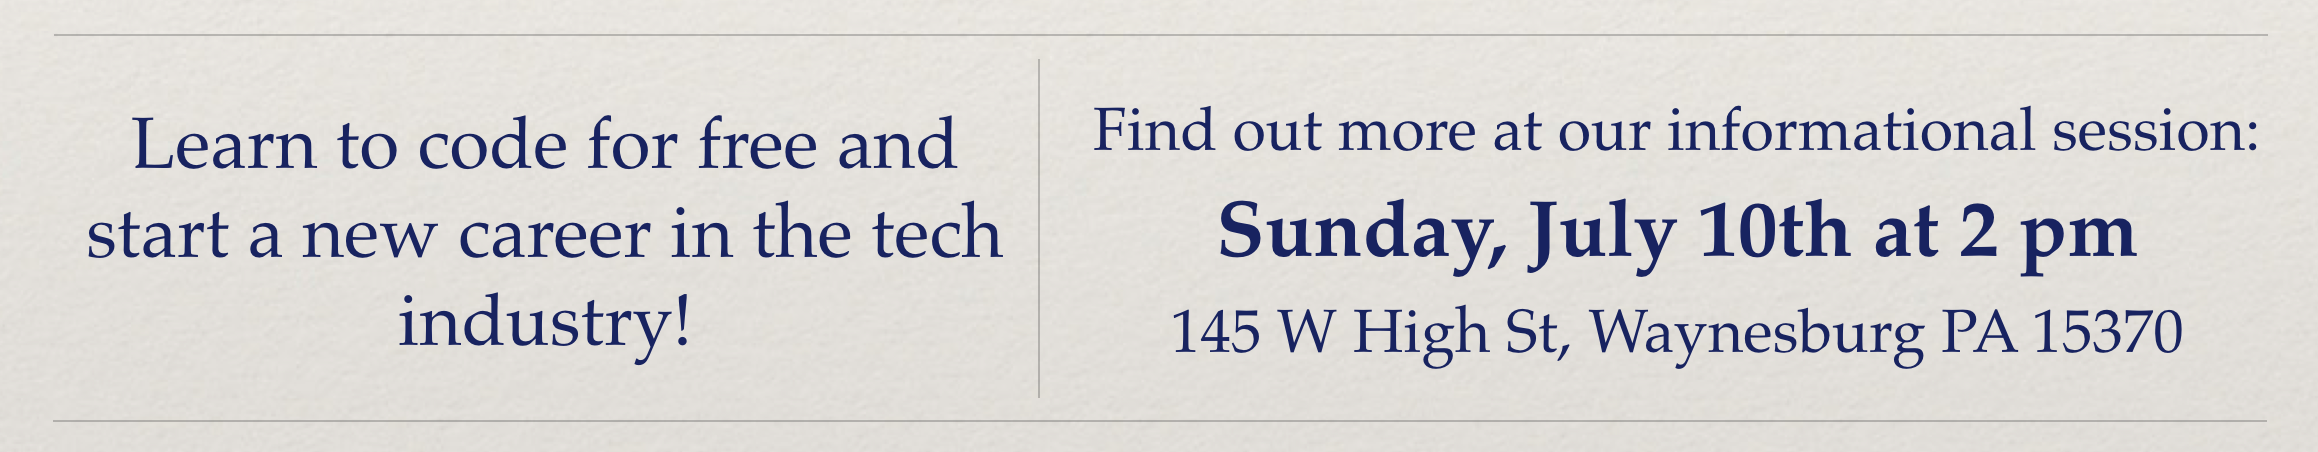
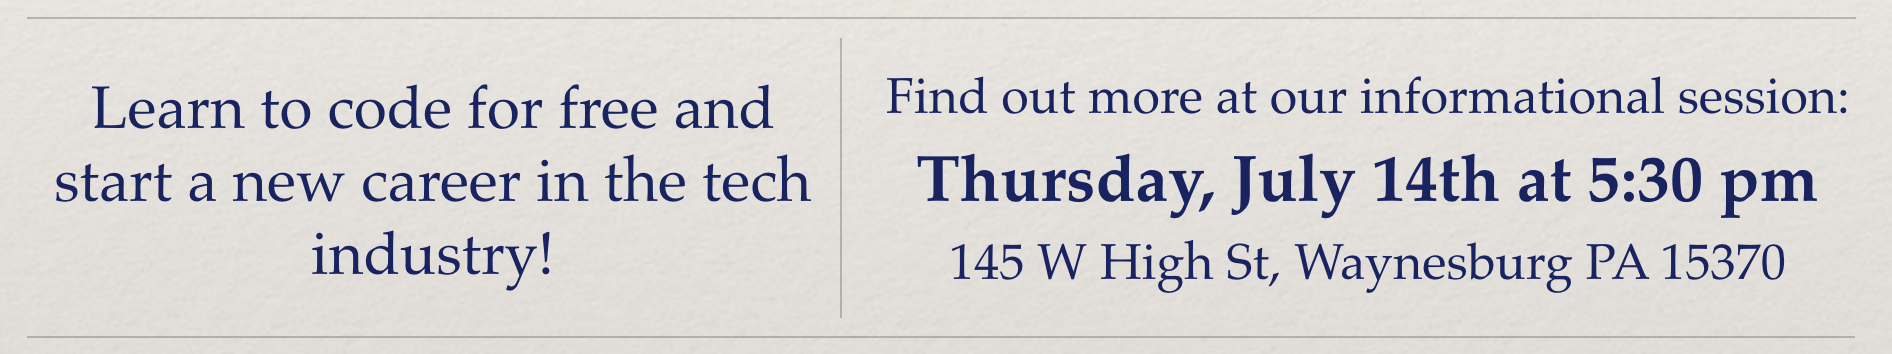
add new info session. Minor detail changes to upcoming courses

diff --git a/_site/training.html b/_site/training.html
@@ -82,12 +82,12 @@
   If you are interested in joining a class, then be prepared to convince us that you have the passion and drive to succeed. You may like to look at <a href="http://jonathangraham.github.io/2015/08/13/Teaching%20Programming%20with%20SonicPi/">Learning To Code with Audible Programming</a> and <a href="http://learnrubythehardway.org/book/">Learning Ruby the Hard Way</a>.
   <br /><br />
   <p class="section-title"><span>next courses</span></p>
-    <a href="https://www.facebook.com/events/191624284573663/"><img src="/assets/images/info_session.png" alt="Join us for an informational session on Sunday, July 10th at 2 pm." class="image" /></a><br /><br />
-    <li>Starting August 1st, we will be running a 4-month duration full-time course in partnership with <a href="https://www.ccac.edu/">Community College of Allegheny County</a>. The course will involve on-site training at the Mined Minds office in Waynesburg on Monday's and Thursday's, with remote work throughout the week. This course is ideal for anyone passionate about making an immediate career change.<br /><br />
+    <a href="https://www.facebook.com/events/191624284573663/"><img src="/assets/images/info_session.png" alt="Join us for an informational session on Thursday, July 14th at 5:30 pm." class="image" /></a><br /><br />
+    <li>Starting August 1st, we will be running a 4-month computer-coding bootcamp in partnership with <a href="https://www.ccac.edu/">Community College of Allegheny County</a>. The course will involve on-site training at the Mined Minds office in Waynesburg on Monday's and Thursday's, with remote work throughout the week. Expect to commit a minimum of 40 hours per week to study. This course is ideal for anyone passionate about making an immediate career change.<br /><br />
     <b><a href="https://www.ccac.edu/Computer_Coding_Boot_Camp/">Sign-up is open now!</a></b><br /><br />
     Our goal is for no displaced, dislocated, unemployed, underemployed, or otherwise disadvantaged worker to personally fund the course. We'll do everything we can to help make sure that this happens. There are many funding opportunities available to cover the tuition costs. Please register with <a href="https://www.jobgateway.pa.gov/jponline/JobSeeker/ManageServices/CourseDetails.aspx?Mu63At4oSABZWGqDSQVh0ZbRZlz_5bjCkHj4F7TEhStEer4vRpyWxNskZJ9L6M8K0XRwNNzd0HwQ@H9Vg1OwsQ--qctAyWW4Xamgs1rZjjJO0eGnDr13yWfntZE9wpHRHFeXq42aAnyO">Job Gateway</a>, and visit a CareerLink office to discuss your eligibility. The Waynesburg CareerLink office is located at 4 W High Street, just down the road from Mined Minds, and they are ready to help you through the process. Please note that it can take several weeks to access funding, so start the process now!</li><br />
-    <li>On July 30th, we will start the next part-time course. These part-time courses run for 6-7 months, and are intended for people who are wanting to change career but aren't able to study full-time. On-site training occurs every other weekend, and one evening per week. Students who successfully complete the course spend at least 25 hours per week studying, both individually and in groups. Please <a href="contact.html">contact us</a> to express an interest, detailing why this Summer 2016 PA part-time course is of interest to you. We will be in contact to arrange a phone conversation to determine suitability shortly.</li><br />
-    <li>Due to interest and support from the community in southern West Virginia, we will be commencing a course in the Charleston area later in the summer. Dates and location will be confirmed shortly. The course will be full-time, with one day per week on-site in a south WV location. Please <a href="contact.html">contact us</a> to express an interest, detailing why this 2016 WV course is of interest to you. We will be in contact to arrange a phone conversation to determine suitability shortly.</li><br /> 
+    <li>Due to interest and support from the community in southern West Virginia, we will be commencing a course in the Charleston area later in the summer. Dates and location will be confirmed shortly. The course will involve one day per week on-site in a south WV location, with remote work throughout the rest of the week. Please <a href="contact.html">contact us</a> to express an interest, detailing why this 2016 WV course is of interest to you. We will be in contact to arrange a phone conversation to determine suitability shortly.</li><br />
+    <li>Later in the year we will start another part-time course. The part-time courses run for 6-7 months, and are intended for people who are wanting to change career but aren't able to study full-time. On-site training occurs every other weekend, and one evening per week. Students who successfully complete the course spend at least 25 hours per week studying, both individually and in groups. Please <a href="contact.html">contact us</a> to express an interest, detailing why a part-time course is of interest to you. We will be in contact to arrange a phone conversation to determine suitability shortly.</li><br /> 
   <p class="section-title"><span>support</span></p>
     Mined Minds Foundation is a 501(c)(3) non-profit, bringing software development eduaction, training, and job placement services to coal towns of Pennslyvania and West Virginia. Please <a href="contact.html">get in touch</a> if you would like to support our work.
 </section>

diff --git a/_site/index.html b/_site/index.html
@@ -77,6 +77,7 @@
     <p class="section-title"><span>NEWS</span></p>
   </section>
 <p><b>JULY 2016</b></p>
+<li>Full house for our first informational session, so we will be holding another on Thursday, July 14th, at 5:30 pm. More details on our <a href="https://www.facebook.com/events/291744604509356/">Facebook page</a>.</li>
 <li>We will be holding an <a href="https://www.facebook.com/events/191624284573663/">informational session</a> for our new training courses on <b>Sunday, July 10th, at 2 pm</b>. Join us at 145 W High St, Waynesburg PA 15370, to find out what is involved, the careers that you can expect at the end, and how to apply.</li>
 <p><b>JUNE 2016</b></p>
 <li><a href="https://www.ccac.edu/Computer_Coding_Boot_Camp/">Sign-up is now open</a> for our next full-time course, run in conjunction with Community College of Allegheny County. The course starts August 1st, and will run from our Waynesburg PA office.</li>

diff --git a/training.md b/training.md
@@ -25,12 +25,12 @@ include_social: true
   If you are interested in joining a class, then be prepared to convince us that you have the passion and drive to succeed. You may like to look at <a href="http://jonathangraham.github.io/2015/08/13/Teaching%20Programming%20with%20SonicPi/">Learning To Code with Audible Programming</a> and <a href="http://learnrubythehardway.org/book/">Learning Ruby the Hard Way</a>.
   <br><br>
   <p class="section-title"><span>next courses</span></p>
-    <a href="https://www.facebook.com/events/191624284573663/"><img src="/assets/images/info_session.png" alt="Join us for an informational session on Sunday, July 10th at 2 pm." class="image"></a><br><br>
-    <li>Starting August 1st, we will be running a 4-month duration full-time course in partnership with <a href="https://www.ccac.edu/">Community College of Allegheny County</a>. The course will involve on-site training at the Mined Minds office in Waynesburg on Monday's and Thursday's, with remote work throughout the week. This course is ideal for anyone passionate about making an immediate career change.<br><br>
+    <a href="https://www.facebook.com/events/191624284573663/"><img src="/assets/images/info_session.png" alt="Join us for an informational session on Thursday, July 14th at 5:30 pm." class="image"></a><br><br>
+    <li>Starting August 1st, we will be running a 4-month computer-coding bootcamp in partnership with <a href="https://www.ccac.edu/">Community College of Allegheny County</a>. The course will involve on-site training at the Mined Minds office in Waynesburg on Monday's and Thursday's, with remote work throughout the week. Expect to commit a minimum of 40 hours per week to study. This course is ideal for anyone passionate about making an immediate career change.<br><br>
     <b><a href="https://www.ccac.edu/Computer_Coding_Boot_Camp/">Sign-up is open now!</a></b><br><br>
     Our goal is for no displaced, dislocated, unemployed, underemployed, or otherwise disadvantaged worker to personally fund the course. We'll do everything we can to help make sure that this happens. There are many funding opportunities available to cover the tuition costs. Please register with <a href="https://www.jobgateway.pa.gov/jponline/JobSeeker/ManageServices/CourseDetails.aspx?Mu63At4oSABZWGqDSQVh0ZbRZlz_5bjCkHj4F7TEhStEer4vRpyWxNskZJ9L6M8K0XRwNNzd0HwQ@H9Vg1OwsQ--qctAyWW4Xamgs1rZjjJO0eGnDr13yWfntZE9wpHRHFeXq42aAnyO">Job Gateway</a>, and visit a CareerLink office to discuss your eligibility. The Waynesburg CareerLink office is located at 4 W High Street, just down the road from Mined Minds, and they are ready to help you through the process. Please note that it can take several weeks to access funding, so start the process now!</li><br>
-    <li>On July 30th, we will start the next part-time course. These part-time courses run for 6-7 months, and are intended for people who are wanting to change career but aren't able to study full-time. On-site training occurs every other weekend, and one evening per week. Students who successfully complete the course spend at least 25 hours per week studying, both individually and in groups. Please <a href="contact.html">contact us</a> to express an interest, detailing why this Summer 2016 PA part-time course is of interest to you. We will be in contact to arrange a phone conversation to determine suitability shortly.</li><br>
-    <li>Due to interest and support from the community in southern West Virginia, we will be commencing a course in the Charleston area later in the summer. Dates and location will be confirmed shortly. The course will be full-time, with one day per week on-site in a south WV location. Please <a href="contact.html">contact us</a> to express an interest, detailing why this 2016 WV course is of interest to you. We will be in contact to arrange a phone conversation to determine suitability shortly.</li><br> 
+    <li>Due to interest and support from the community in southern West Virginia, we will be commencing a course in the Charleston area later in the summer. Dates and location will be confirmed shortly. The course will involve one day per week on-site in a south WV location, with remote work throughout the rest of the week. Please <a href="contact.html">contact us</a> to express an interest, detailing why this 2016 WV course is of interest to you. We will be in contact to arrange a phone conversation to determine suitability shortly.</li><br>
+    <li>Later in the year we will start another part-time course. The part-time courses run for 6-7 months, and are intended for people who are wanting to change career but aren't able to study full-time. On-site training occurs every other weekend, and one evening per week. Students who successfully complete the course spend at least 25 hours per week studying, both individually and in groups. Please <a href="contact.html">contact us</a> to express an interest, detailing why a part-time course is of interest to you. We will be in contact to arrange a phone conversation to determine suitability shortly.</li><br> 
   <p class="section-title"><span>support</span></p>
     Mined Minds Foundation is a 501(c)(3) non-profit, bringing software development eduaction, training, and job placement services to coal towns of Pennslyvania and West Virginia. Please <a href="contact.html">get in touch</a> if you would like to support our work.
 </section>

diff --git a/index.md b/index.md
@@ -20,6 +20,7 @@ include_social: true
     <p class="section-title"><span>NEWS</span></p>
   </section>
   <b>JULY 2016</b>
+  <li>Full house for our first informational session, so we will be holding another on Thursday, July 14th, at 5:30 pm. More details on our <a href="https://www.facebook.com/events/291744604509356/">Facebook page</a>.</li> 
   <li>We will be holding an <a href="https://www.facebook.com/events/191624284573663/">informational session</a> for our new training courses on <b>Sunday, July 10th, at 2 pm</b>. Join us at 145 W High St, Waynesburg PA 15370, to find out what is involved, the careers that you can expect at the end, and how to apply.</li>
   <b>JUNE 2016</b>
   <li><a href="https://www.ccac.edu/Computer_Coding_Boot_Camp/">Sign-up is now open</a> for our next full-time course, run in conjunction with Community College of Allegheny County. The course starts August 1st, and will run from our Waynesburg PA office.</li>
